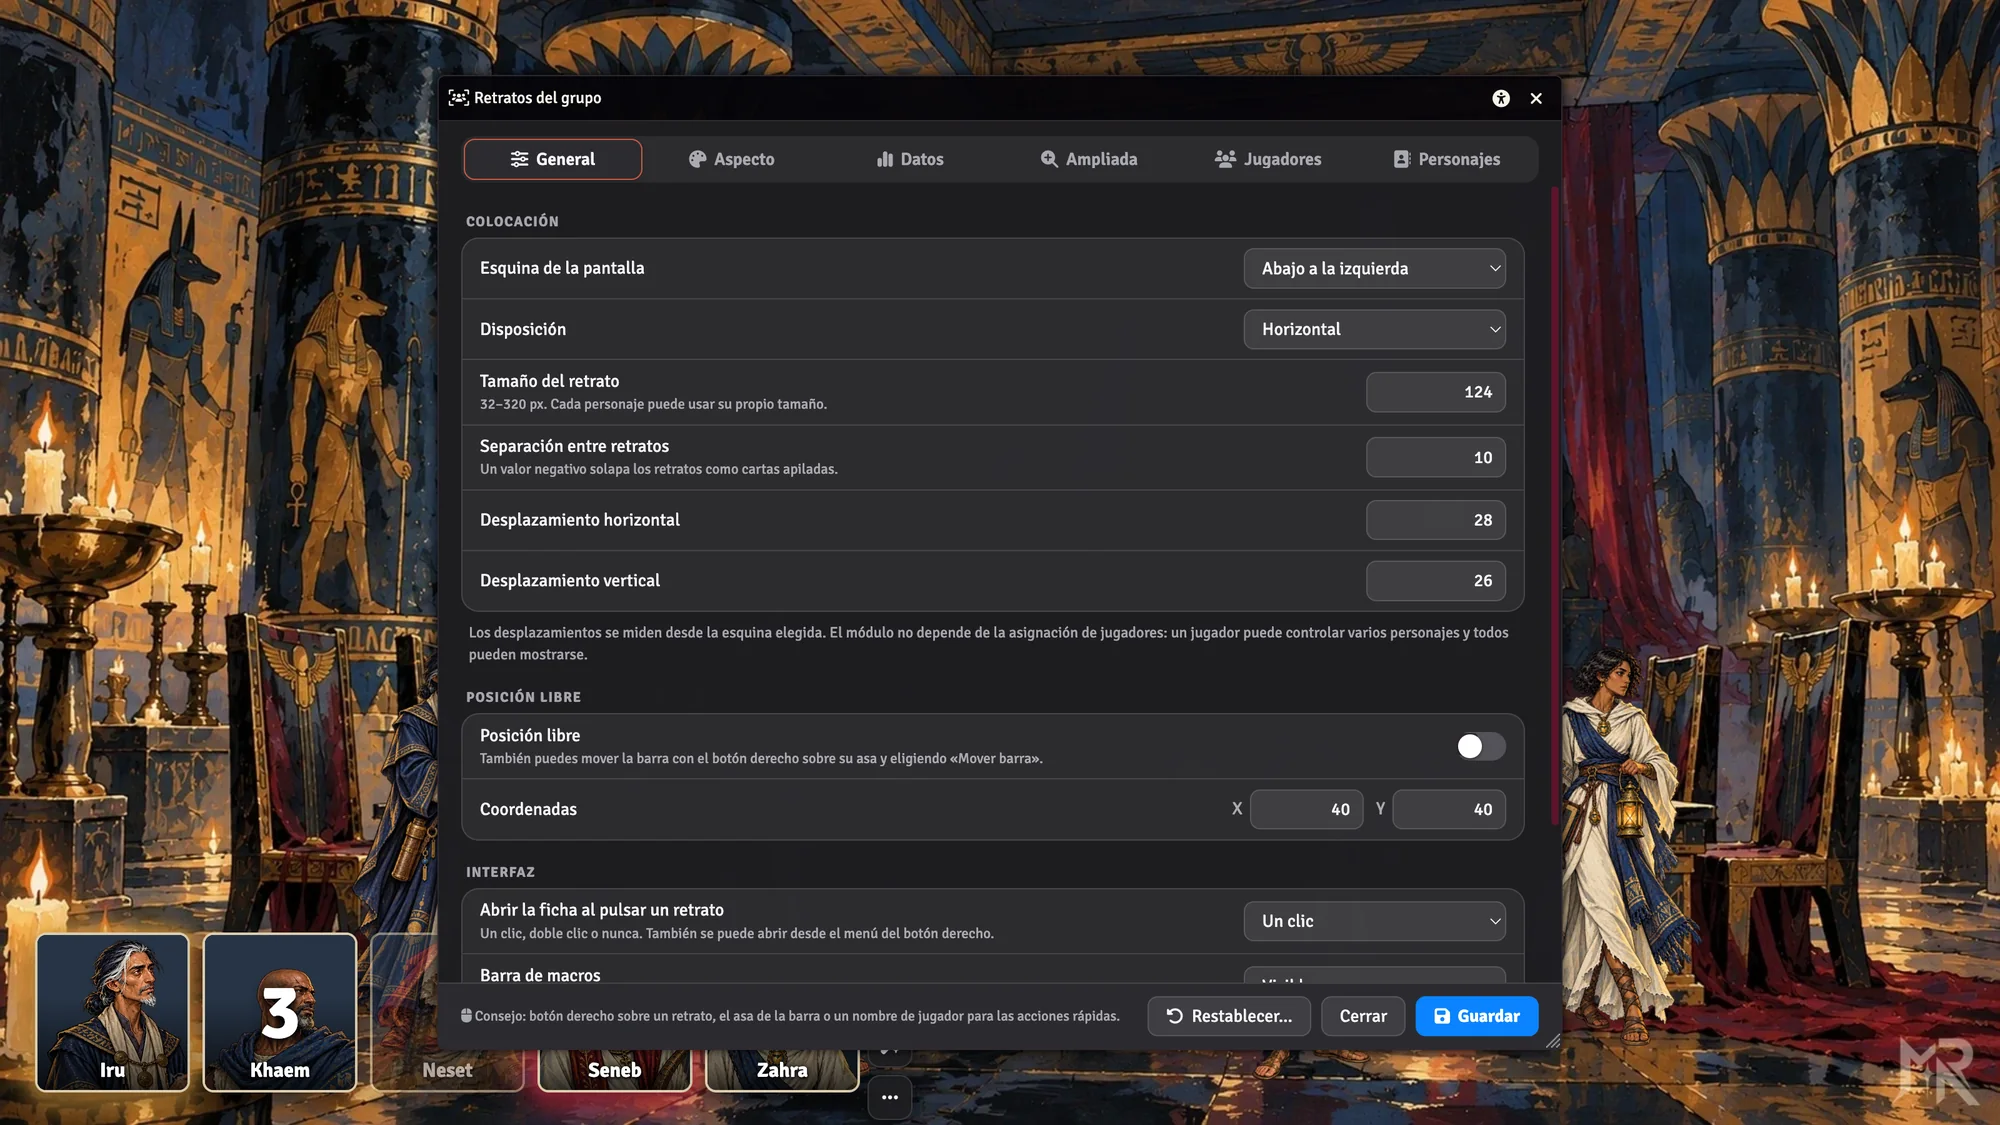
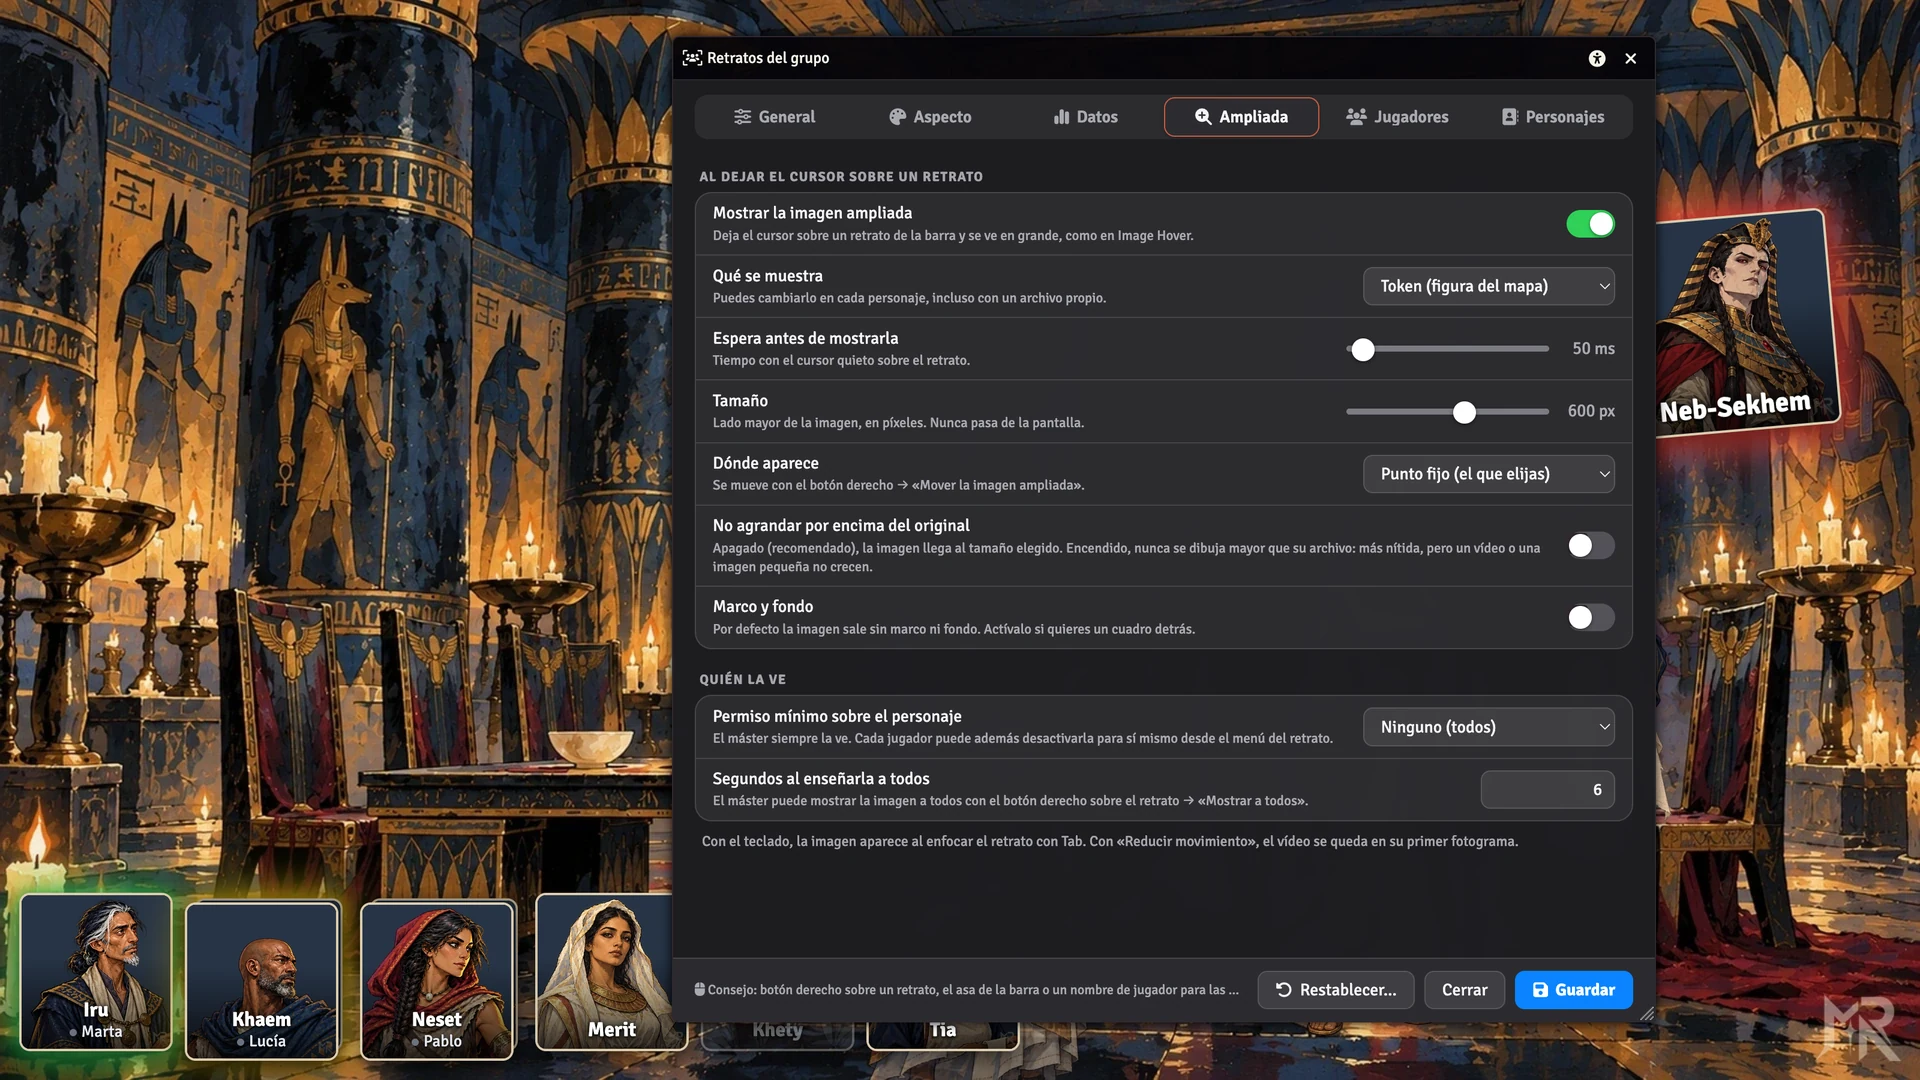
1.14.1: estudio con todos los retratos visibles y página del repositorio con capturas de El Trono de la Sed

Changed region(s): [[0.0, 0.0306, 1.0, 1.0], [0.625, 0.275, 0.6875, 0.3056]]

diff --git a/scripts/studio.js b/scripts/studio.js
@@ -20,6 +20,7 @@ import { addA11yButton } from "./a11y.js";
 import { applyLook, focusState, setFocus } from "./look.js";
 import { isVideo, portraitSource } from "./media.js";
 import { hideHover, refreshHoverPreview, showHover } from "./hover.js";
+import { visiblePortraits } from "./scene.js";
 import { openFramingApp } from "./framing-app.js";
 
 const { ApplicationV2, HandlebarsApplicationMixin, DialogV2 } = foundry.applications.api;
@@ -65,7 +66,8 @@ const BUILTIN = [
 
 /* ------------------------------------------------------------------ estado */
 
-const barIds = () => getConfig().order.filter(id => game.actors?.get(id));
+/** Los retratos que se están mostrando (incluye jugadores, tokens de la escena y sueltos), no solo la lista guardada. */
+const barIds = () => visiblePortraits(getConfig()).ids.filter(id => game.actors?.get(id));
 
 function selection() {
   const ids = new Set(barIds());

diff --git a/README.md b/README.md
@@ -39,12 +39,17 @@ Actívalo en tu mundo y abre **Configuración → Ajustes del módulo → Config
 - **Retratos sueltos**: saca a cualquier personaje o PNJ de la barra y colócalo donde quieras, individualmente (y vuelve a meterlo cuando quieras). Hueco negativo para **apilarlos como cartas**.
 - **Ctrl + rueda** sobre un retrato lo inclina (solo ese). **Botones rápidos** al pasar el cursor (máster): ocultar/mostrar a los jugadores, sacar de la barra, estudio…
 - **Añadir personajes** con un selector con buscador, o **arrastrando actores** del directorio a la barra o a un retrato suelto.
-- **Retratos por escena**: muestra solo los **fijos** y los personajes con **token en la escena** (con su mismo estado oculto/visible), u oculta la barra en escenas de carga.
+- **Retratos por escena**: un interruptor y cada escena muestra a los **jugadores (siempre)**, a los **fijos** y a todo lo que tenga **token en ella**, con su mismo estado oculto/visible.
+- **Pilas de fichas**: un jugador con varias fichas las ve apiladas; un clic cambia de ficha (con animación) y **la elegida pasa a primer plano para todos**. Al pasar el cursor se abren en **abanico**.
 - Tamaño global y por personaje, marcos (completo, mínimo o ninguno), fondo oscuro o transparente, bordes, sombra y opacidad.
 - **Nombre del personaje y del jugador**, con indicador de conexión.
 - **Barras y campos configurables** de la ficha (PG, CA, nivel, estrés…): ruta del valor y del máximo, color o **automático** (verde → rojo). Presets para D&D 5e, PF2e, Call of Cthulhu 7e, Alien, WoD5, Cyberpunk RED, SWADE y Fate, y sugerencias de rutas sacadas de tus fichas reales.
 - **Retrato, token o archivo propio** para cada personaje: imagen, **GIF en bucle o vídeo corto** (webm, mp4). Los recortes con transparencia (WebP/PNG o webm con alfa) se integran en la escena sin marco.
 - **Encuadre por personaje** (zona + zoom) con arrastre y rueda.
+
+<p align="center">
+  <img src="docs/img/stack.webp" alt="Pilas de fichas abiertas en abanico, con la ficha oculta de un PNJ atenuada" width="62%">
+</p>
 
 ### 🔍 Vista ampliada
 Deja el cursor sobre un retrato y se ve **en grande** el token, el retrato o el archivo que hayas elegido para ese personaje (inspirado en *Image Hover*, pero disparado por los retratos del grupo).

diff --git a/CHANGELOG.md b/CHANGELOG.md
@@ -1,5 +1,10 @@
 # Cambios
 
+## 1.14.1
+
+- **Estudio de retratos:** ahora lista y permite elegir **todos los retratos que se están mostrando** (jugadores, tokens de la escena y sueltos), no solo los de la lista guardada. Antes, en el modo por escena con la lista vacía, el estudio salía sin personajes.
+- Página del repositorio con capturas nuevas hechas sobre la aventura *El Trono de la Sed* (Legend in the Mist), portada nueva y sección de pilas de fichas.
+
 ## 1.14.0
 
 - **Pilas de fichas en los dos modos.** Un jugador con varios personajes los ve apilados (uno tras otro, abanico al pasar el cursor, clic para cambiar) también con «Mostrar todos los de la lista», no solo en el modo por escena.
